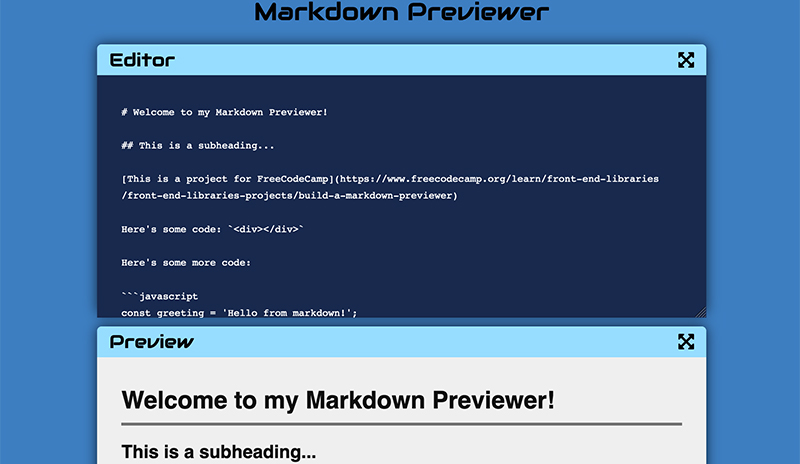
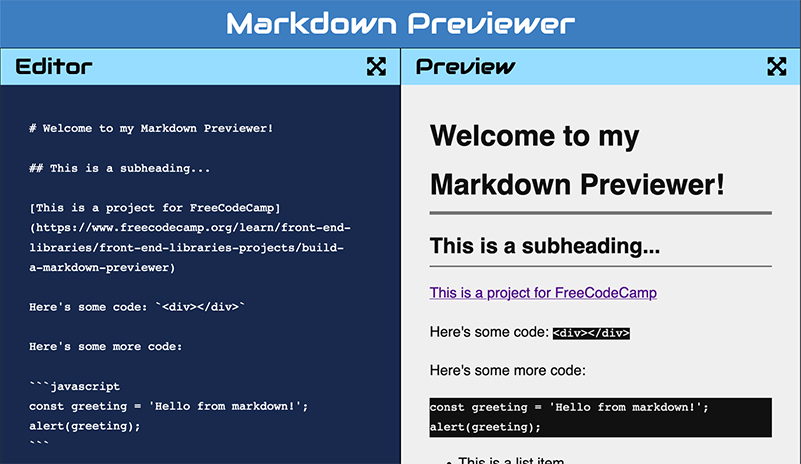
Change markdown previewer image and edit about me

diff --git a/index.html b/index.html
@@ -162,12 +162,12 @@
             <use xlink:href="./dist/resources/images/avatar.svg#avatar"></use>
           </svg> -->
           <p class="about__para">
-            I'm a full stack web developer but my specialty is front end. I like
-            to build web apps with React.js and Next.js, but I am always open to
-            adopting a new tech stack if its right for the project. I love
-            implementing creative designs and building memorable user
-            experiences. When building an application, I focus on accessability,
-            performance, and maintainability. Please check out my
+            I'm a full stack web developer but my specialty is front end
+            development. I like to build web apps with React and Next.js, but I
+            am always open to adopting a new tech stack if its right for the
+            project. I love implementing creative designs and building memorable
+            user experiences. When building an application, I focus on
+            accessability, performance, and maintainability. Please check out my
             <a
               class="link"
               href="https://github.com/83au"
